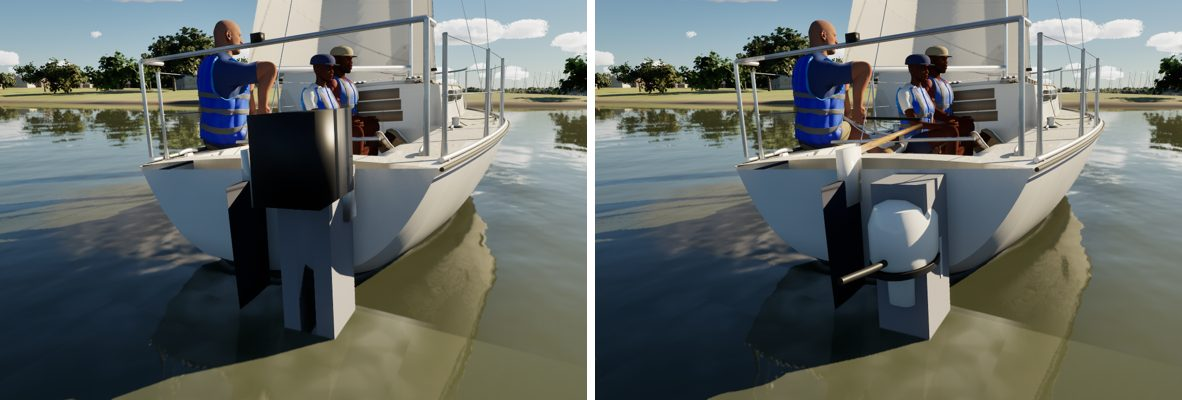
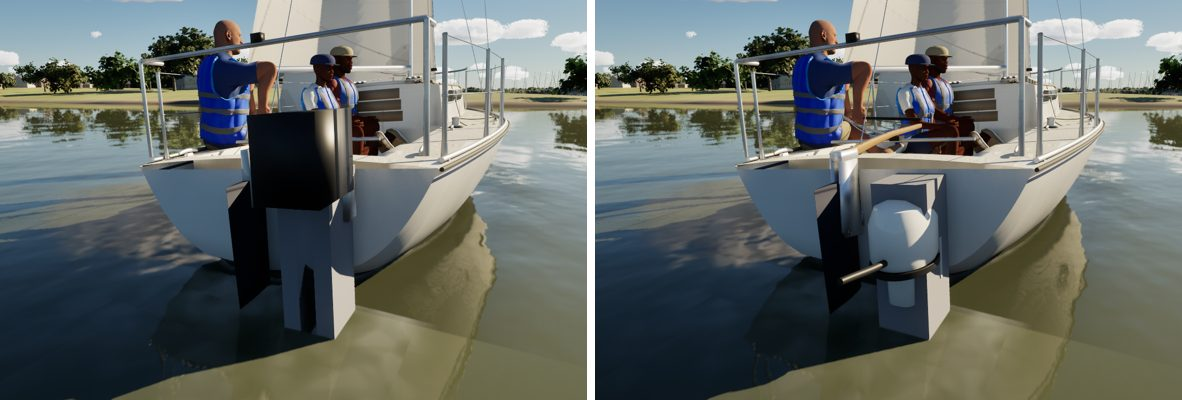
Catalina 22 fidelity: the cast rudder head, gudgeon and varnished tiller
With #286's shared builder on main: the C22's white-box rudder head is the
cast aluminium head at 1.4 times the dinghies' size and 45 cm tall on her
transom, a gudgeon arm to her pivot, the blade aft of the pintle and a
tapered varnished tiller. Assets regenerated after merging main. Sockets
unchanged; FleetMesh, BoatBudget, HardwareKit green, 231/231.

diff --git a/Tools/blender/build_fleet.py b/Tools/blender/build_fleet.py
@@ -1538,31 +1538,32 @@ def build_boom():
     return m.finish(smooth_angle=60.0, origin=(gx, 0, gz))
 
 
-def sunfish_rudder_head(m, Hh, stock_x, cy, st, tz, tl, top_chord, alu_tiller=False):
+def sunfish_rudder_head(m, Hh, stock_x, cy, st, tz, tl, top_chord, alu_tiller=False, z0=0.10, k=1.0):
     """pc/sunfish-fidelity: the Sunfish's rudder head, from class photos (it had been a white box and a round stick): the
     cast aluminium head, two cheeks round the blade's top on a through-bolt (the blade kicks up about it), a barrel round
     the pintle pin on the pivot axis, split where the transom's gudgeon takes it; the tiller socket on top, the varnished
     tiller deeper than wide and tapering to a rounded grip, held by a bolt. Rudder-side parts (they turn with it); the
     gudgeon is the hull's (sunfish_gudgeon). pc/ilca-fidelity: alu_tiller, the ILCA's: a round aluminium tube, 28 mm,
-    its last 15 cm under a black grip."""
+    its last 15 cm under a black grip. pc/c22-fidelity: z0, the head's foot (the Catalina 22's head is 45 cm tall on her
+    high transom), and k, its size (her cheeks 1.4 times the dinghies')."""
     x = stock_x
     half = 0.5 * 0.11 * top_chord + 0.0005          # the blade's half thickness at the top
     for s in (1, -1):
-        slab(m, [(x - 0.004, 0.10), (x - 0.13, 0.13), (x - 0.15, 0.17), (x - 0.13, tz - 0.01), (x - 0.004, tz)], cy + s * (half + 0.0035), 0.007, "Aluminium")
-    for z0, z1 in ((0.10, 0.158), (0.202, tz)):
-        tube(m, [(x, cy, z0), (x, cy, z1)], 0.0095, "Aluminium", 12)
-    slab(m, rounded(x - 0.125, tz - 0.026, x + 0.004, tz + 0.026, 0.012, 3), cy, 0.046, "Aluminium")
+        slab(m, [(x - 0.004, z0), (x - 0.13 * k, z0 + 0.03), (x - 0.15 * k, z0 + 0.07), (x - 0.13 * k, tz - 0.01), (x - 0.004, tz)], cy + s * (half + 0.0035 * k), 0.007 * k, "Aluminium")
+    for za, zb in ((z0, z0 + 0.058), (z0 + 0.102, tz)):
+        tube(m, [(x, cy, za), (x, cy, zb)], 0.0095 * k, "Aluminium", 12)
+    slab(m, rounded(x - 0.125 * k, tz - 0.026, x + 0.004, tz + 0.026, 0.012, 3), cy, 0.046 * k, "Aluminium")
     # the pintle pin with its head, and the blade's pivot bolt with nuts
-    tube(m, [(x, cy, 0.092), (x, cy, tz + 0.03)], 0.0045, "Stainless", 8)
-    lathe(m, x, cy, [(0.0, tz + 0.03), (0.008, tz + 0.03), (0.008, tz + 0.036), (0.0, tz + 0.039)], "Stainless", 10)
-    bx, bz = x - 0.1, 0.15
-    tube(m, [(bx, cy - half - 0.012, bz), (bx, cy + half + 0.012, bz)], 0.0045, "Stainless", 8)
+    tube(m, [(x, cy, z0 - 0.008), (x, cy, tz + 0.03)], 0.0045 * k, "Stainless", 8)
+    lathe(m, x, cy, [(0.0, tz + 0.03), (0.008 * k, tz + 0.03), (0.008 * k, tz + 0.036), (0.0, tz + 0.039)], "Stainless", 10)
+    bx, bz = x - 0.1 * k, z0 + 0.05
+    tube(m, [(bx, cy - half - 0.012 * k, bz), (bx, cy + half + 0.012 * k, bz)], 0.0045 * k, "Stainless", 8)
     for s in (1, -1):
-        tube(m, [(bx, cy + s * (half + 0.007), bz), (bx, cy + s * (half + 0.012), bz)], 0.0095, "Stainless", 6)
+        tube(m, [(bx, cy + s * (half + 0.007 * k), bz), (bx, cy + s * (half + 0.012 * k), bz)], 0.0095 * k, "Stainless", 6)
     # the tiller
     path = [(x - 0.11, cy, tz + 0.001), (x + 0.02, cy, tz + 0.008), (x + 0.22, cy, tz + 0.033), (x + 0.5, cy, tz + 0.06),
             (x + tl - 0.04, cy, tz + 0.078), (x + tl - 0.005, cy, tz + 0.08), (x + tl + 0.012, cy, tz + 0.08)]
-    sections = [(0.03, 0.042), (0.03, 0.042), (0.028, 0.038), (0.026, 0.032), (0.025, 0.028), (0.022, 0.024), (0.01, 0.012)]
+    sections = [(w * min(k, 1.2), h * min(k, 1.2)) for (w, h) in ((0.03, 0.042), (0.03, 0.042), (0.028, 0.038), (0.026, 0.032), (0.025, 0.028), (0.022, 0.024), (0.01, 0.012))]
     if alu_tiller:
         tube(m, [(x - 0.11, cy, tz + 0.001), (x + 0.02, cy, tz + 0.008), (x + 0.22, cy, tz + 0.033), (x + 0.5, cy, tz + 0.06), (x + tl - 0.15, cy, tz + 0.075)], 0.014, "Aluminium", 12)
         tube(m, [(x + tl - 0.15, cy, tz + 0.075), (x + tl - 0.005, cy, tz + 0.08)], 0.0165, "BlackPlastic", 12)
@@ -1573,15 +1574,16 @@ def sunfish_rudder_head(m, Hh, stock_x, cy, st, tz, tl, top_chord, alu_tiller=Fa
         tube(m, [(x - 0.06, cy + s * 0.023, tz), (x - 0.06, cy + s * 0.028, tz)], 0.0075, "Stainless", 6)
 
 
-def sunfish_gudgeon(Hh, stock_x, cy, st):
+def sunfish_gudgeon(Hh, stock_x, cy, st, z0=0.10):
     """pc/sunfish-fidelity: the transom's gudgeon: a stainless plate screwed to the transom and its barrel round the
     rudder's pintle, between the head casting's two barrels."""
-    box(hull, (st - 0.002, cy, 0.18), (0.004, 0.06, 0.085), "Stainless")
-    tube(hull, [(stock_x, cy, 0.161), (stock_x, cy, 0.199)], 0.0105, "Stainless", 12)
+    zc = z0 + 0.08
+    box(hull, (st - 0.002, cy, zc), (0.004, 0.06, 0.085), "Stainless")
+    tube(hull, [(stock_x, cy, z0 + 0.061), (stock_x, cy, z0 + 0.099)], 0.0105, "Stainless", 12)
     if stock_x < st - 0.012:     # (the ILCA's pivot stands 6 cm off her transom: the gudgeon's arm reaches it)
-        box(hull, (0.5 * (st + stock_x), cy, 0.18), (st - stock_x, 0.014, 0.032), "Stainless")
+        box(hull, (0.5 * (st + stock_x), cy, zc), (st - stock_x, 0.014, 0.032), "Stainless")
     for y in (-0.02, 0.02):
-        for z in (0.15, 0.21):
+        for z in (zc - 0.03, zc + 0.03):
             tube(hull, [(st - 0.004, cy + y, z), (st - 0.0058, cy + y, z)], 0.004, "Stainless", 8)
 
 
@@ -1610,16 +1612,17 @@ def build_rudder():
         z = z_top + (z_bot - z_top) * t
         c = chord * (1.2 - 0.45 * t ** 1.4) if transom else chord * (1.0 - 0.3 * t)
         secs.append((z, stock_x + 0.25 * c - 0.25 * chord + 0.03, c))
-    if TAG in ("Sunfish", "ILCA7"):
-        # pc/sunfish-fidelity (and the ILCA's): the blade hangs aft of its pintle in the head casting (its leading edge had been ahead of
+    if TAG in ("Sunfish", "ILCA7", "Catalina22"):
+        # pc/sunfish-fidelity (and the ILCA's, the Catalina 22's): the blade hangs aft of its pintle in the head casting (its leading edge had been ahead of
         # the pivot, inside the transom).
         secs = [(z, stock_x - 0.014, c) for (z, le, c) in secs]
     foil(m, [(z, le, c) for (z, le, c) in secs], "Antifouling" if SPEC["paint"] else "Topsides", 0.11, cy)
-    if transom and tillered and TAG in ("Sunfish", "ILCA7"):
+    if transom and tillered and TAG in ("Sunfish", "ILCA7", "Catalina22"):
         tz = Hh.sheer(st) + 0.08
         tl = RIG["tiller_length"]
-        sunfish_rudder_head(m, Hh, stock_x, cy, st, tz, tl, secs[0][2], alu_tiller=TAG == "ILCA7")
-        sunfish_gudgeon(Hh, stock_x, cy, st)
+        z0 = tz - 0.45 if TAG == "Catalina22" else 0.10
+        sunfish_rudder_head(m, Hh, stock_x, cy, st, tz, tl, secs[0][2], alu_tiller=TAG == "ILCA7", z0=z0, k=1.4 if TAG == "Catalina22" else 1.0)
+        sunfish_gudgeon(Hh, stock_x, cy, st, z0)
         socket("TillerEnd", (stock_x + tl, cy, tz + 0.08), owner="Rudder")
     elif transom and tillered:
         tz = Hh.sheer(st) + 0.08

diff --git a/docs/c22-detail/README.md b/docs/c22-detail/README.md
@@ -16,6 +16,9 @@ The renders are the game at Ultra.
 | Outboard | three boxes and a cylinder | the shared kit's brand-free 3.5 hp four-stroke (cowl, midsection, foil leg, skeg, three-blade prop, tiller arm) clamped to the kit's two-position transom bracket on the starboard quarter |
 | Cabin-top handrails | two round sticks | the kit's teak handrails, four hand holes each, along the trunk top |
 | Forward hatch | a dark box | the kit's low acrylic hatch: frame, smoked lid, hinges, handles |
+| Rudder head | a white box | the cast aluminium head #286 generalised from the Sunfish's, at 1.4 times the size and 45 cm tall on her high transom: cheeks on a through-bolt, the pintle's barrels on the pivot axis, the blade hung aft of it |
+| Gudgeon | none | a stainless plate on the transom, its arm out to the pivot 2.4 cm off it |
+| Tiller | a round stick | varnished, deeper than wide and tapering to a rounded grip, 1.0 m |
 
 On the outboard's height: the bracket is set so the anti-cavitation plate is 10 cm under the water and the prop about
 16 cm down, with the cowl's top a little under deck level, as a lowered long-shaft sits (the clamp is 0.52 m over the
@@ -24,17 +27,11 @@ plate). The physics' engine position is unchanged.
 The handrails, hatch and outboard apply only to the Catalina 22. The Catalina 30 and the Corsair, which share the cabin
 and outboard code, keep theirs until their own passes.
 
-## Not in this pass
-
-- **The rudder head** is still the white box. The ILCA pass (#286) generalises the Sunfish's cast rudder head and
-  gudgeon, and the C22 takes it with a height and size option as soon as #286 is merged. Doing it here would have
-  edited the same lines as #286 or stacked this branch on it.
-
 ## Kept as they were
 
 - **Sockets:** all unchanged (`Catalina22_sockets.json` identical), so there were no socket moves to report.
 - **Measures:** FleetMesh's are unchanged.
-- **Triangles:** hull 157,994 (Nanite).
+- **Triangles:** hull 158,174 (Nanite), rudder 548 (was 340).
 - **Material slots:** unchanged.
 - **The berthed dresses:** not touched.
 
@@ -43,3 +40,4 @@ and outboard code, keep theirs until their own passes.
 ![transom](transom.jpg)
 ![cabin top](cabintop.jpg)
 ![side deck](side.jpg)
+![tiller](tiller.jpg)
